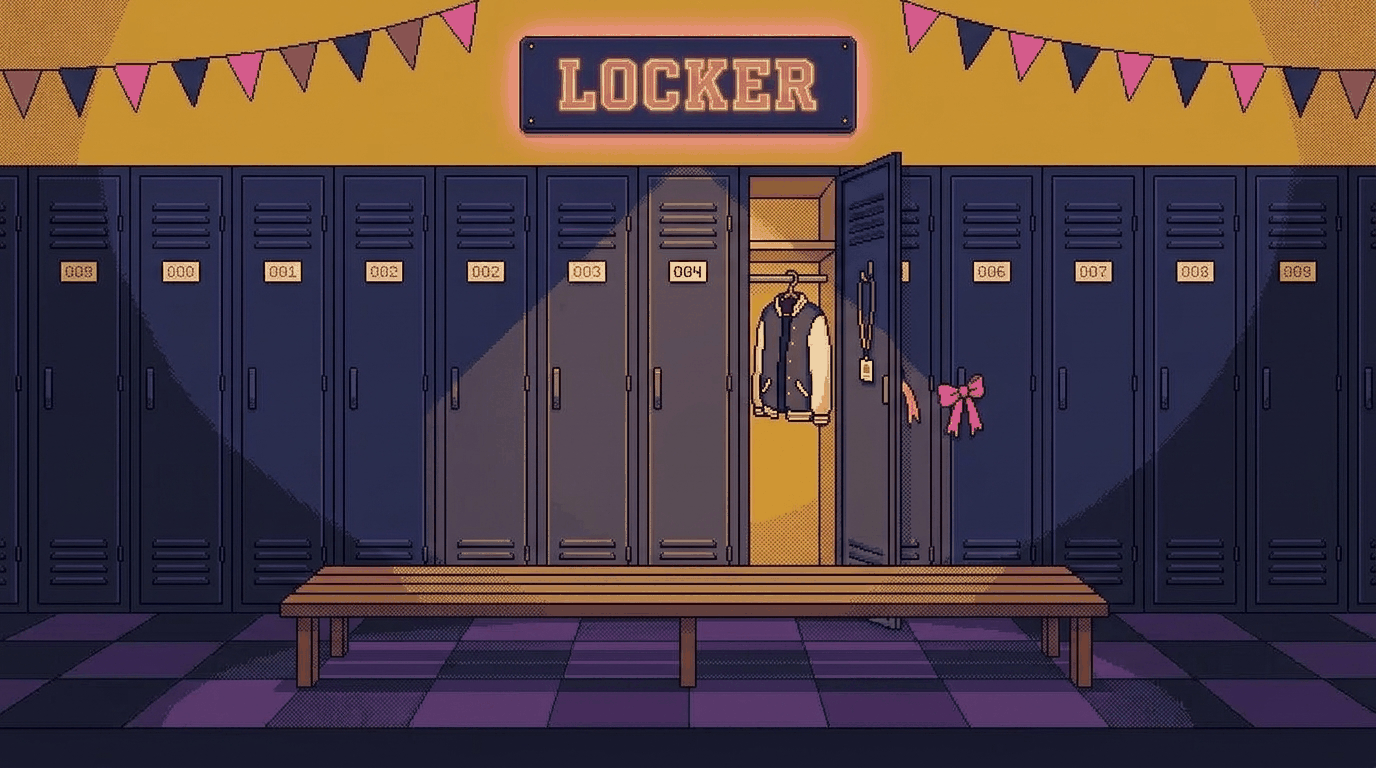
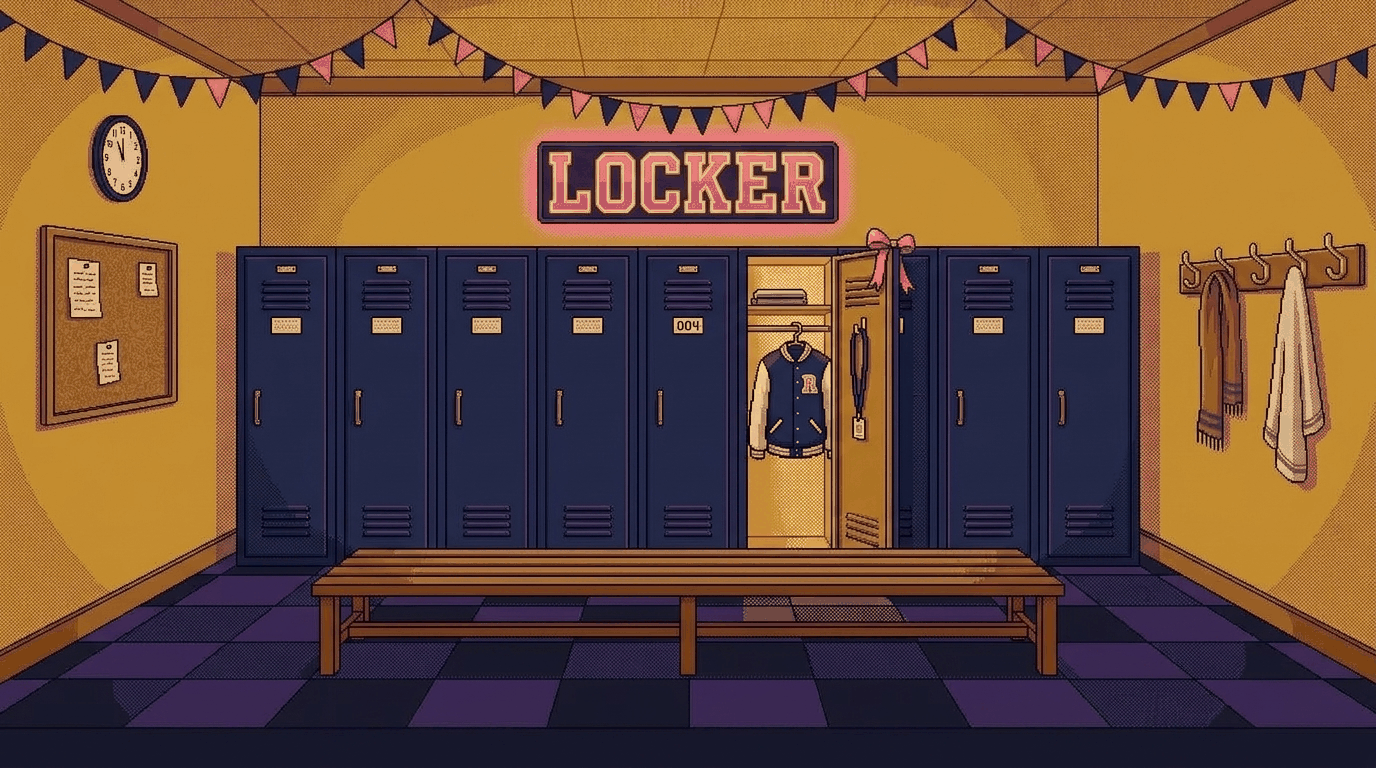
art(arcademy): the Locker gets a real room
vn-21 redone under the house camera law, chained off the records office
anchor: side walls, ceiling and floor converge to the centre, pink LOCKER
sign, bench top a sliver. HOT_LOCKER re-measured on the new plate.

Claude-Session: https://claude.ai/code/session_01SpGh5B86bg4UWAXCzuet2t

diff --git a/ConditioningControlPanel/Resources/web/arcademy/shell/locker.js b/ConditioningControlPanel/Resources/web/arcademy/shell/locker.js
@@ -66,14 +66,18 @@ import { onDeviceChange } from '../core/device.js';
  * THE TABLE
  * -------------------------------------------------------------------------- */
 
-/** The painted set. 1376x768, chained off vn-17 under the house camera law. */
+/** The painted set. 1376x768, chained off vn-09 (the records office) under the
+ *  house camera law, redo of 2026-08-28: real room depth, side walls
+ *  converging. */
 export const PLATE = 'vn-21-locker-room.png';
 
-/** THE OPEN DOOR, measured off the plate: the lit bay with the jacket on the
- *  hanger plus the leaf swung out beside it. It is the only thing in the room
- *  you can press, so it is the only thing that breathes. Clear of the apron
- *  line (y 640) on its own. */
-export const HOT_LOCKER = Object.freeze([746, 150, 162, 418]);
+/** THE OPEN DOOR, measured off the new plate: the lit bay with the varsity
+ *  jacket on the hanger plus the door leaf swung out beside it (x 748-888),
+ *  the locker bank running y 251-545. The 004 plate sits on the closed door
+ *  just left of the bay. It is the only thing in the room you can press, so it
+ *  is the only thing that breathes. Still clear of the apron line (y 640) on
+ *  its own. */
+export const HOT_LOCKER = Object.freeze([744, 246, 150, 304]);
 
 /** The three page-owned meta keys. Page-owned needs no C# change - the theme
  *  picker's `campusTheme` is the precedent and this is the same road. */
